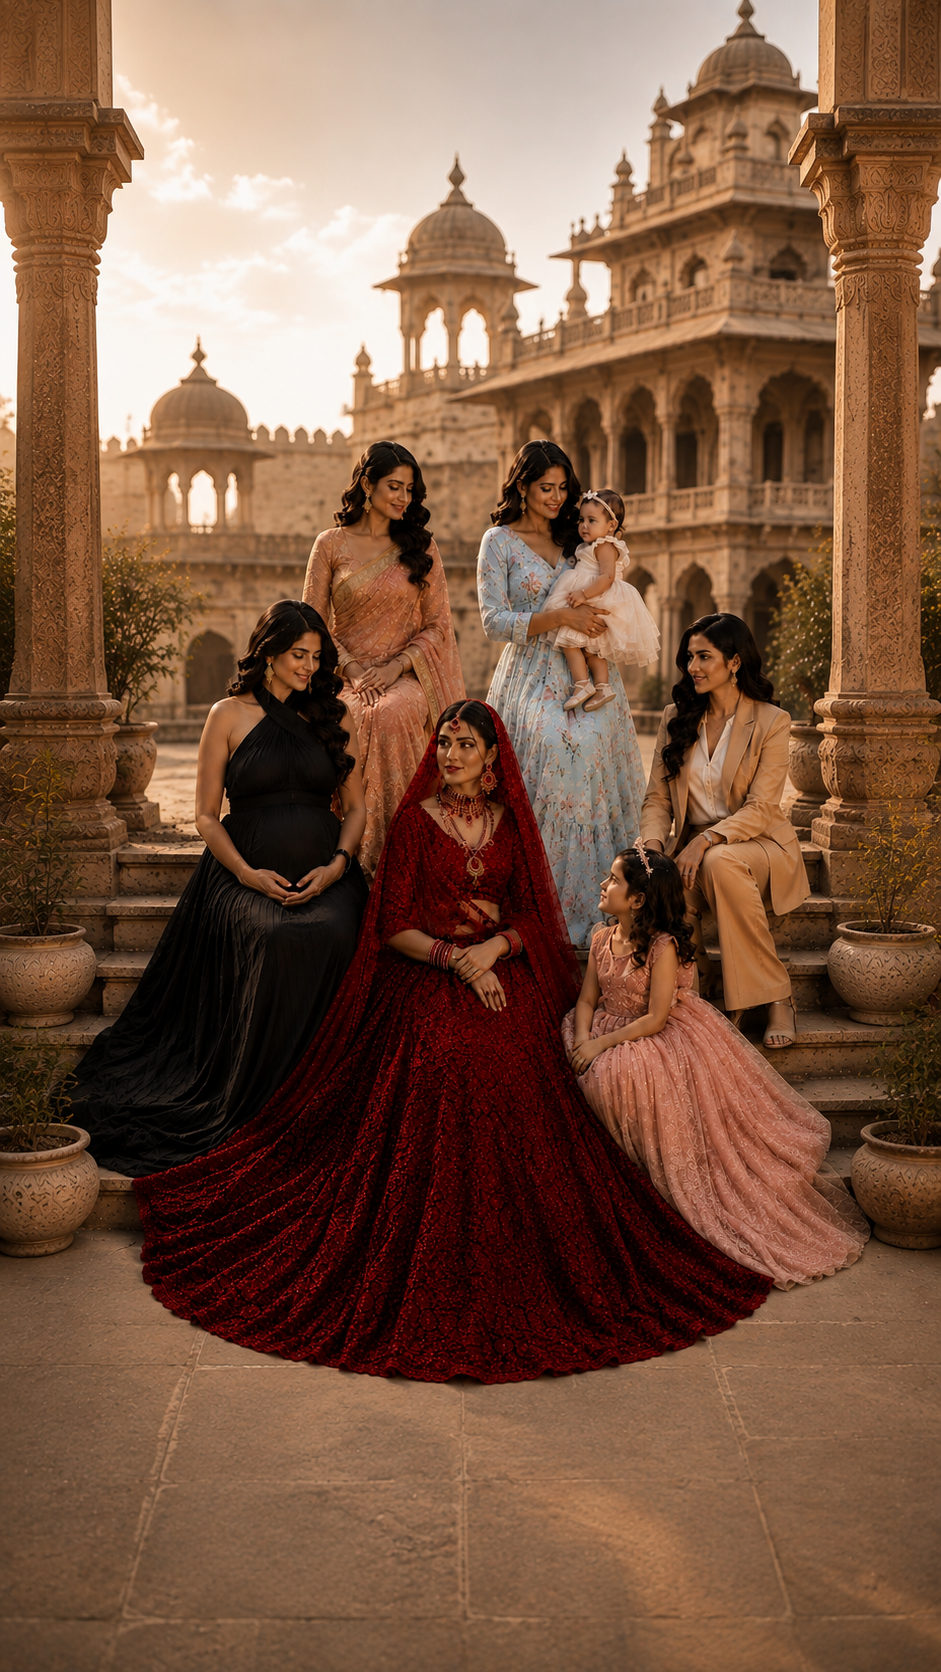
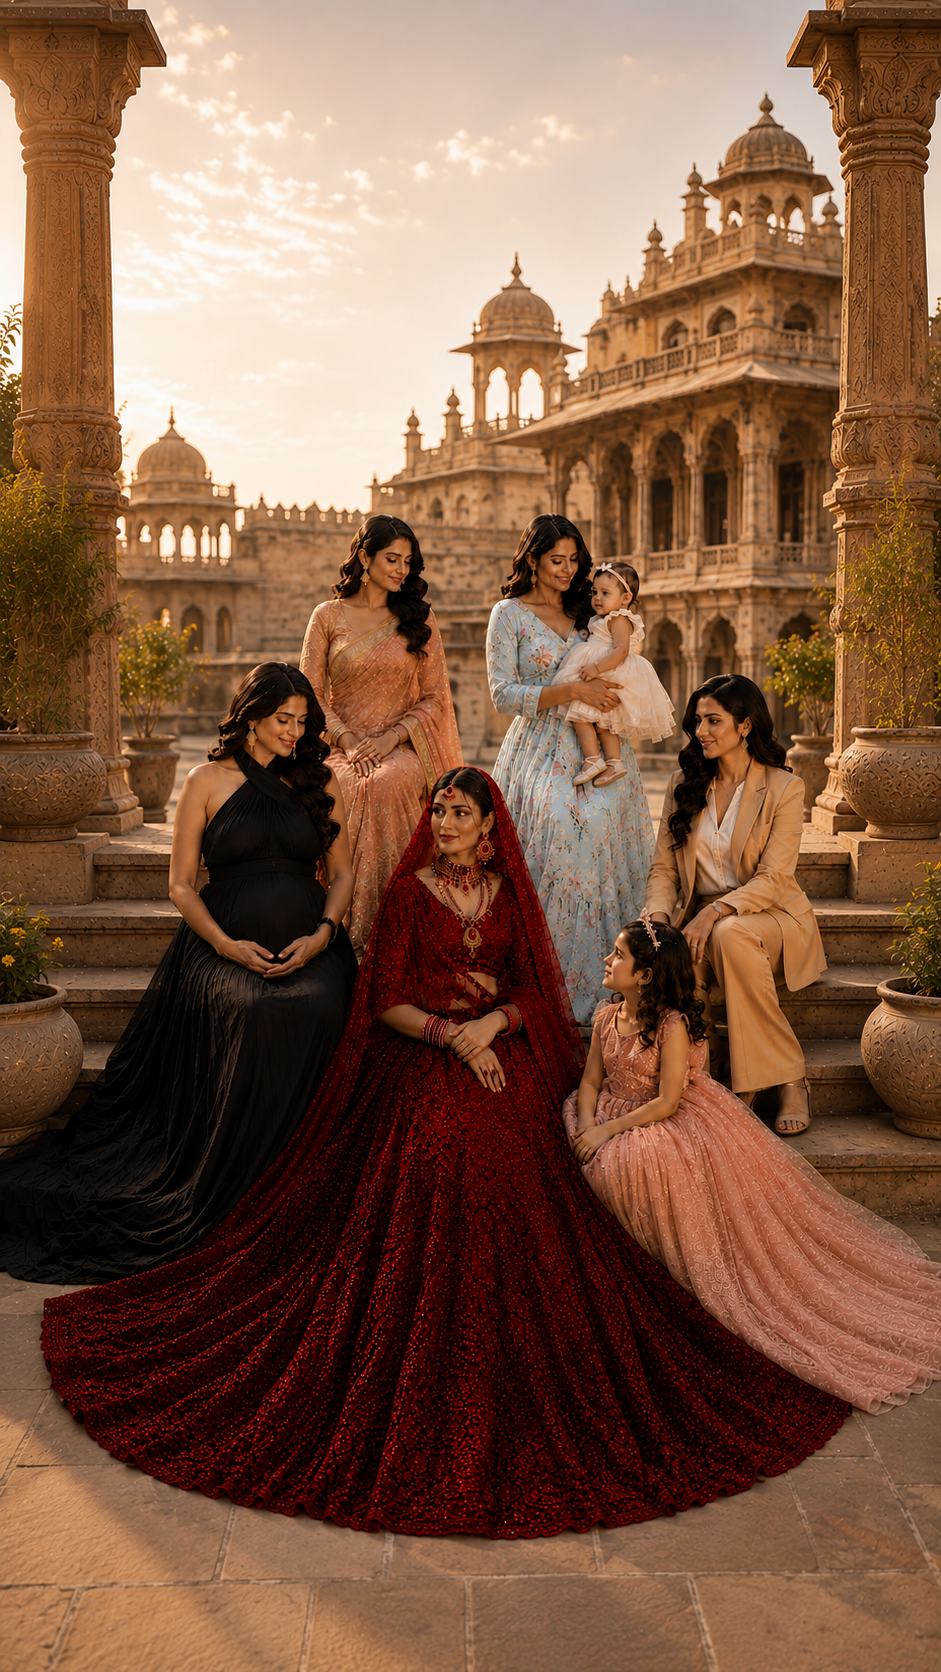
fix: use absolute URL for OG and Twitter card image

diff --git a/src/components/home/HomeContactForm.jsx b/src/components/home/HomeContactForm.jsx
@@ -52,21 +52,8 @@ export default function HomeContactForm() {
     return (
         <section className="py-16 md:py-24 bg-boutique-bg-card border-t border-boutique-muted-border/40">
             <div className="max-w-2xl mx-auto px-4 sm:px-6 lg:px-8">
-                <div className="text-center mb-8">
-                    <div className="inline-flex items-center gap-2 text-boutique-rose text-xs font-semibold uppercase tracking-[0.25em]">
-                        <Sparkles className="w-4 h-4 text-boutique-gold" />
-                        <span>Direct Boutique Inquiry</span>
-                    </div>
-                    <h2 className="font-serif-editorial text-3xl sm:text-4xl md:text-5xl font-bold text-boutique-charcoal mt-2">
-                        Send Us A Message
-                    </h2>
-                    <p className="text-sm text-boutique-taupe font-light mt-2 max-w-lg mx-auto">
-                        Tell us what you&apos;re looking for and we&apos;ll reply on WhatsApp for a fast, personal response.
-                    </p>
-                </div>
-
-                {/* Feature Callouts Box */}
-                <div className="mb-8 bg-white rounded-2xl border border-boutique-muted-border/80 shadow-xs overflow-hidden grid grid-cols-1 sm:grid-cols-2 divide-y sm:divide-y-0 sm:divide-x divide-boutique-muted-border/60">
+                {/* Feature Callouts Box — shown first */}
+                <div className="mb-6 bg-white rounded-2xl border border-boutique-muted-border/80 shadow-xs overflow-hidden grid grid-cols-1 sm:grid-cols-2 divide-y sm:divide-y-0 sm:divide-x divide-boutique-muted-border/60">
                     {/* Made Just For You */}
                     <div className="p-4 sm:p-5 flex items-center gap-3.5">
                         <div className="p-2.5 rounded-xl bg-[#1c4d3d]/10 text-[#1c4d3d] flex-shrink-0">
@@ -96,6 +83,20 @@ export default function HomeContactForm() {
                             </p>
                         </div>
                     </div>
+                </div>
+
+                {/* Section Header — shown below the callouts */}
+                <div className="text-center mb-8">
+                    <div className="inline-flex items-center gap-2 text-boutique-rose text-xs font-semibold uppercase tracking-[0.25em]">
+                        <Sparkles className="w-4 h-4 text-boutique-gold" />
+                        <span>Direct Boutique Inquiry</span>
+                    </div>
+                    <h2 className="font-serif-editorial text-3xl sm:text-4xl md:text-5xl font-bold text-boutique-charcoal mt-2">
+                        Send Us A Message
+                    </h2>
+                    <p className="text-sm text-boutique-taupe font-light mt-2 max-w-lg mx-auto">
+                        Tell us what you&apos;re looking for and we&apos;ll reply on WhatsApp for a fast, personal response.
+                    </p>
                 </div>
 
                 <form

diff --git a/src/components/home/SignatureCTA.jsx b/src/components/home/SignatureCTA.jsx
@@ -40,9 +40,9 @@ export default function SignatureCTA() {
                         href={buildWhatsAppLink()}
                         target="_blank"
                         rel="noopener noreferrer"
-                        className="w-full sm:w-auto inline-flex items-center justify-center gap-2 px-6 sm:px-7 py-3 rounded-full bg-[#128C7E] hover:bg-[#0c6b60] text-white text-xs font-semibold tracking-[0.14em] uppercase whitespace-nowrap transition-all duration-300 shadow-sm hover:shadow-md hover:-translate-y-0.5 active:translate-y-0 text-center"
+                        className="w-full sm:w-auto inline-flex items-center justify-center gap-2 px-6 sm:px-7 py-3 rounded-full bg-white border-2 border-[#1F4A3B] text-[#1F4A3B] hover:bg-[#1F4A3B] hover:text-white text-xs font-semibold tracking-[0.14em] uppercase whitespace-nowrap transition-all duration-300 shadow-sm hover:shadow-md hover:-translate-y-0.5 active:translate-y-0 text-center"
                     >
-                        <WhatsAppIcon className="w-4 h-4 text-white flex-shrink-0" />
+                        <WhatsAppIcon className="w-4 h-4 flex-shrink-0" />
                         <span>ENQUIRE ON WHATSAPP</span>
                     </a>
                 </div>
